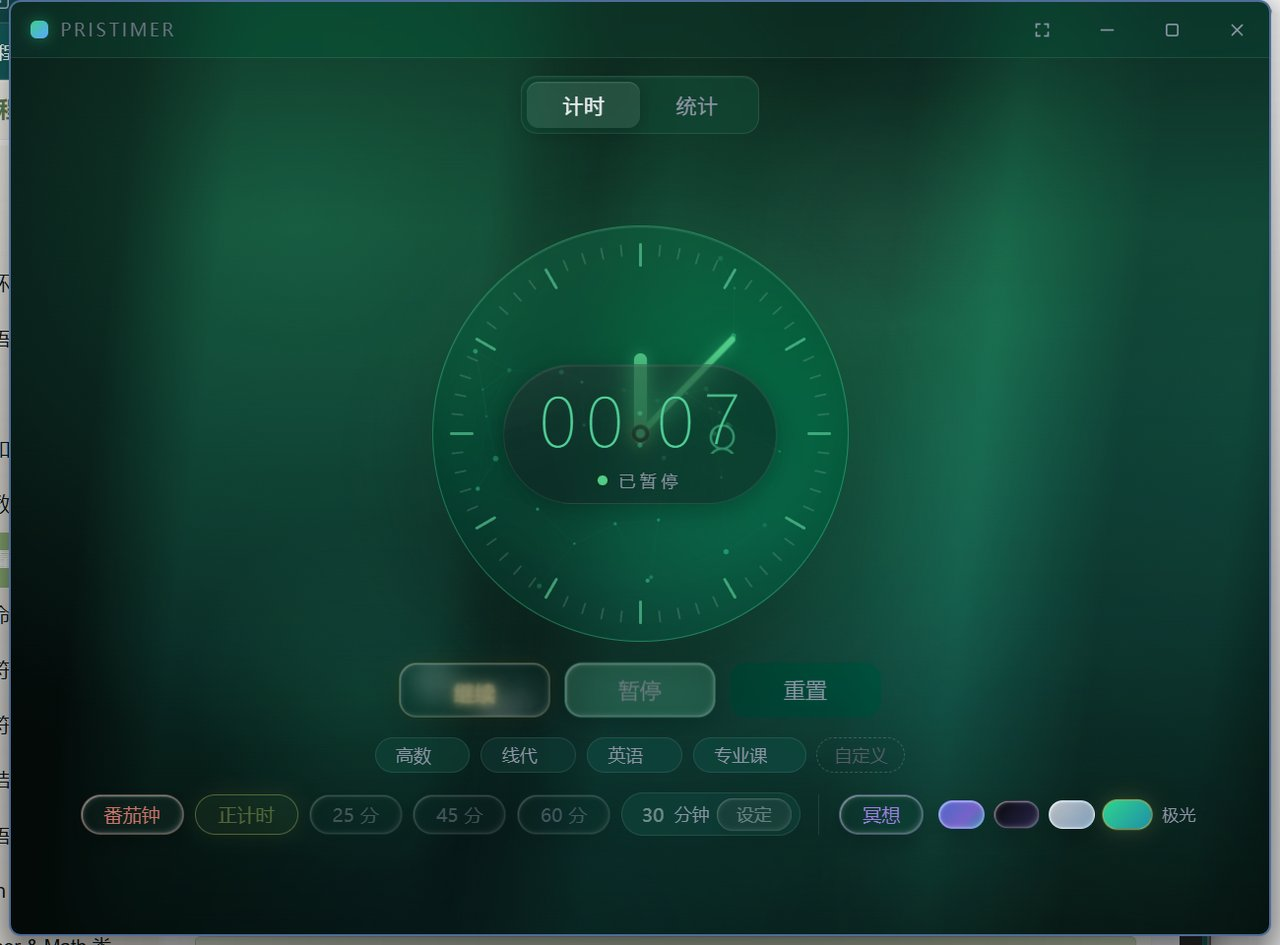
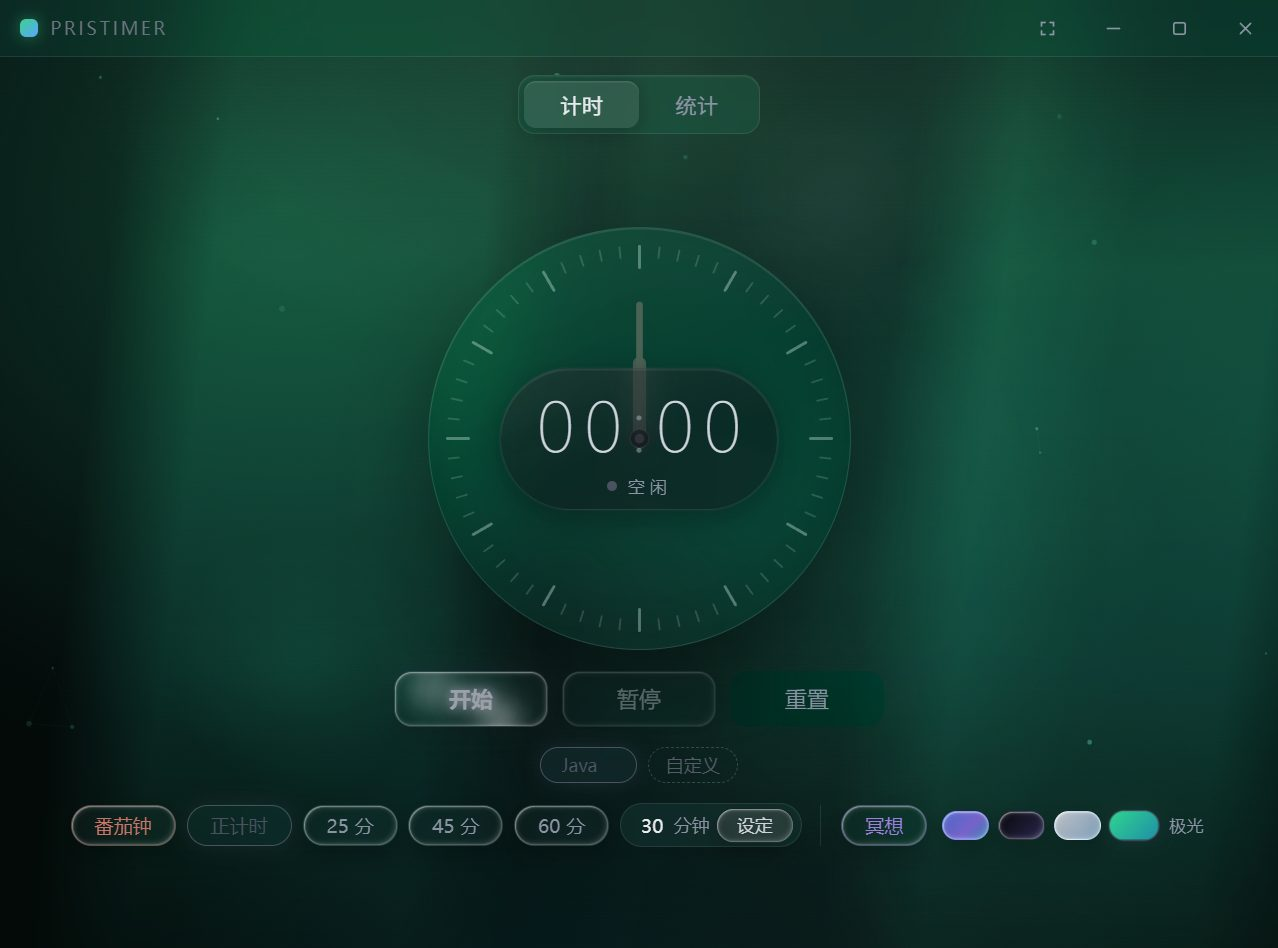
docs: refresh theme screenshots (round-20 theme-aware hands/ticks) and describe dial theme colors

diff --git a/README.md b/README.md
@@ -25,7 +25,7 @@
 
 ### 界面
 - **液态玻璃设计系统**：四向边缘高光 + 底部折射暗影 + accent 环境色边缘光，玻璃从"贴片"到"有厚度的板"；大面板周期性镜面扫光（specular sheen）
-- **四套主题**，`@property` 颜色插值实现 0.9s 丝滑过渡，每套主题有专属背景动效
+- **四套主题**，`@property` 颜色插值实现 0.9s 丝滑过渡，每套主题有专属背景动效；表盘指针、刻度与盘内粒子同主题换色（前景与底色明度反向，保证任何主题下辨识度）
 
 | 深空 | 虚空 | 晨雾 | 极光 |
 |---|---|---|---|
@@ -33,7 +33,7 @@
 | 斜向光带 | 星尘 + 流星 | 暖色光尘 | 纵向光幕 |
 
 - **迷你置顶组件**：264×96 常驻桌面，原生 `SetWindowPos` 分帧动画（≤67fps，DwmFlush 对齐）平滑缩放
-- **表盘粒子**：计时运行时粒子在盘面内漂移连线，出界沿法线反弹
+- **表盘粒子**：计时运行时粒子在盘面内漂移连线，出界沿法线反弹；颜色随主题取色（深空靛蓝星光 / 虚空银白 / 晨雾墨蓝 / 极光春绿），状态色交给盘框、进度弧与呼吸光承担
 - **霓虹按钮**：多层光晕呼吸，hover 点亮纯白，「亮着的字」永远指向下一个动作
 - **顶部滚动进度条**：右侧滚动条整体取消，滚动位置由窗口顶缘 2.5px 细条表达
 - **统计视图**：年度热力图 / 小时分布 / 趋势曲线，数字滚动补间
